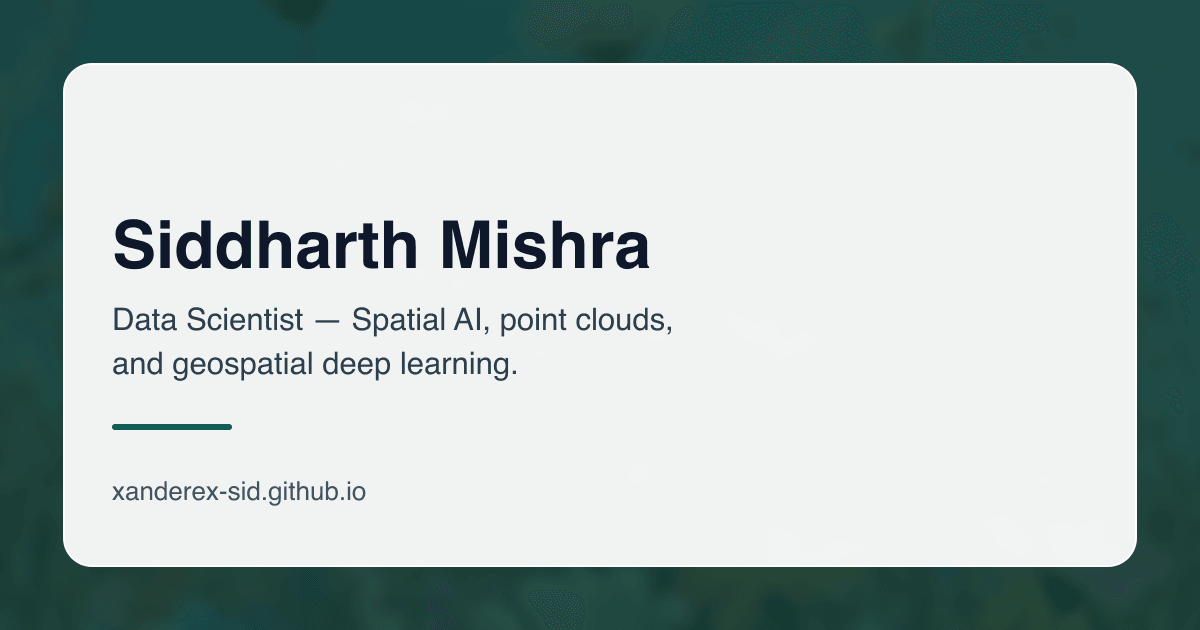
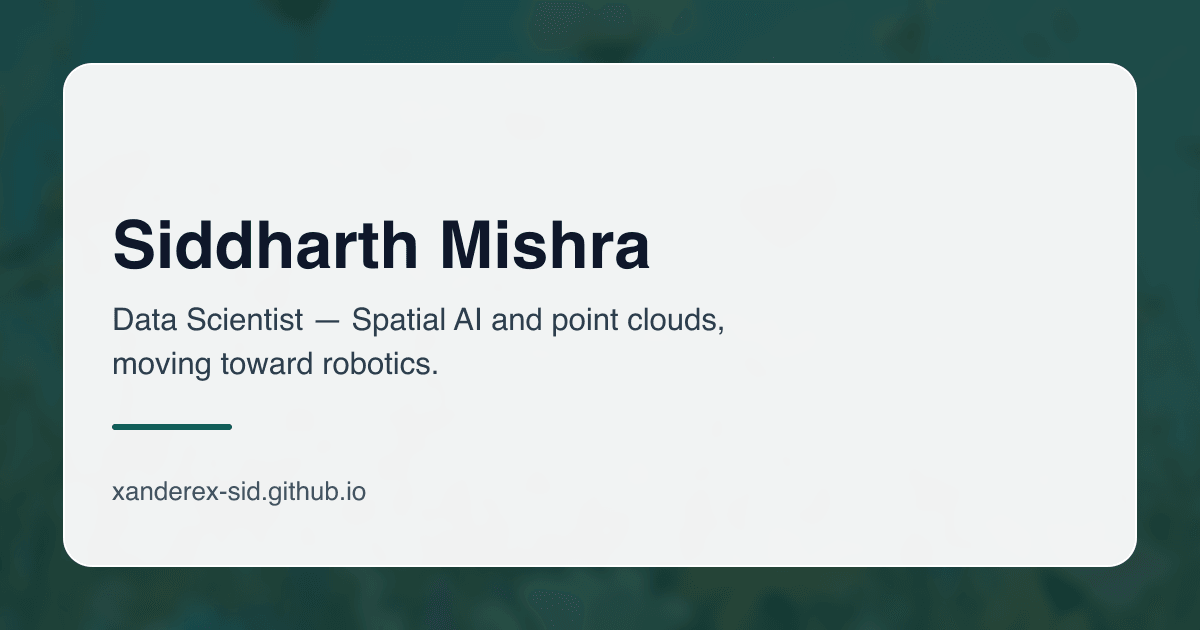
Lead with robotics: tagline, section order, social card
Two follow-ups to the robotics rewrite.

Hero tagline now ends "Moving toward robotics." so the direction is
visible in the first thing a reader sees, rather than only further down
the page. The same sentence appears in three other places, so the meta
description and the generated OG card were updated to match and
public/og-default.png regenerated.

Research interests moves directly under the hero, above Recent news.
Homepage order is now hero -> research interests -> recent news -> about
-> publications, which puts the robotics framing in front of an
admissions reader immediately.

Also fixes a stale comment in consts.ts that named the OG image
og-default.svg; it has always been a .png.

Verified: astro check 0 errors / 0 warnings / 0 hints; build clean at 3
pages; 0 WCAG AA failures on the homepage (min 5.6:1 desktop, 6.13:1
mobile); 0 horizontal overflow at 390px; built HTML confirms the new
section order and the updated description.

Claude-Session: https://claude.ai/code/session_01B3qPdbDNuR1V3piEGbNRtQ

Changed region(s): [[0.0925, 0.5429, 0.4317, 0.6032], [0.4008, 0.4825, 0.6167, 0.5429], [0.4317, 0.0, 0.5242, 0.0603]]

diff --git a/src/consts.ts b/src/consts.ts
@@ -2,13 +2,13 @@
 
 export const SITE = {
   title: 'Siddharth Mishra',
-  tagline: 'Data Scientist — Spatial AI, point clouds, and geospatial deep learning.',
+  tagline: 'Data Scientist — Spatial AI and point clouds, moving toward robotics.',
   description:
-    'Siddharth Mishra — Data Scientist at Deepmatrix working on LiDAR and photogrammetry point-cloud segmentation, geospatial object detection, and Spatial AI.',
+    'Siddharth Mishra — Data Scientist at Deepmatrix working on LiDAR point-cloud segmentation and geospatial object detection, now moving toward robotics.',
   url: 'https://xanderex-sid.github.io',
   author: 'Siddharth Mishra',
   locale: 'en',
-  /** Used for og:image; generated at public/og-default.svg. */
+  /** Used for og:image; generated at public/og-default.png by scripts/make-og.mjs. */
   ogImage: '/og-default.png',
 } as const;
 
